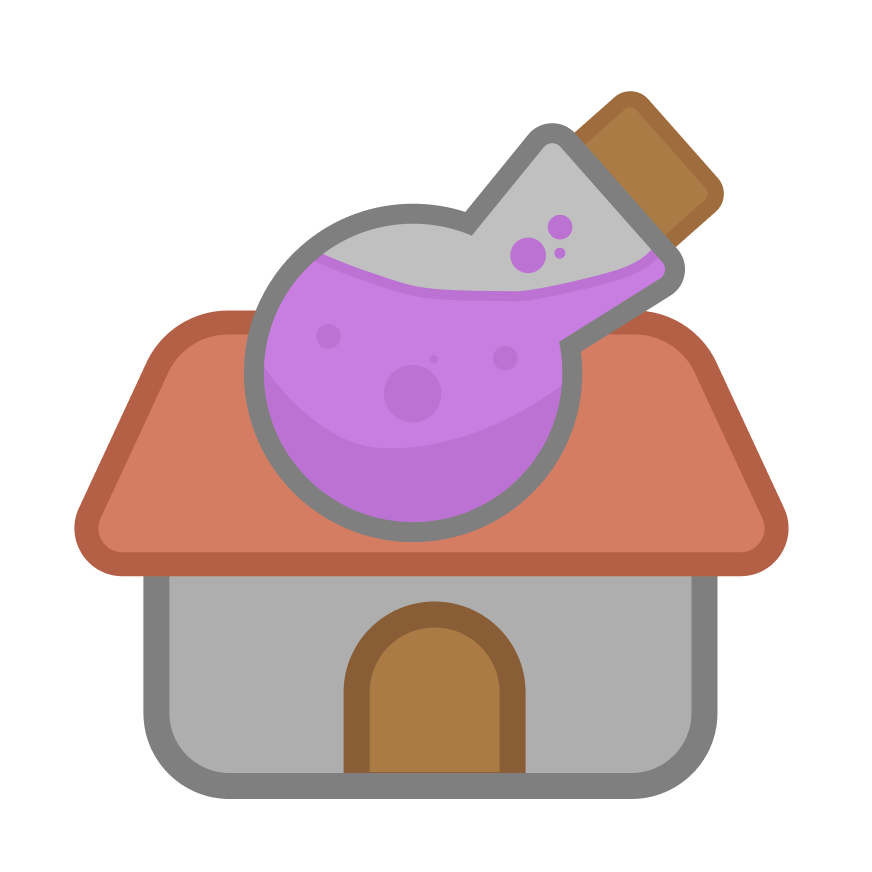
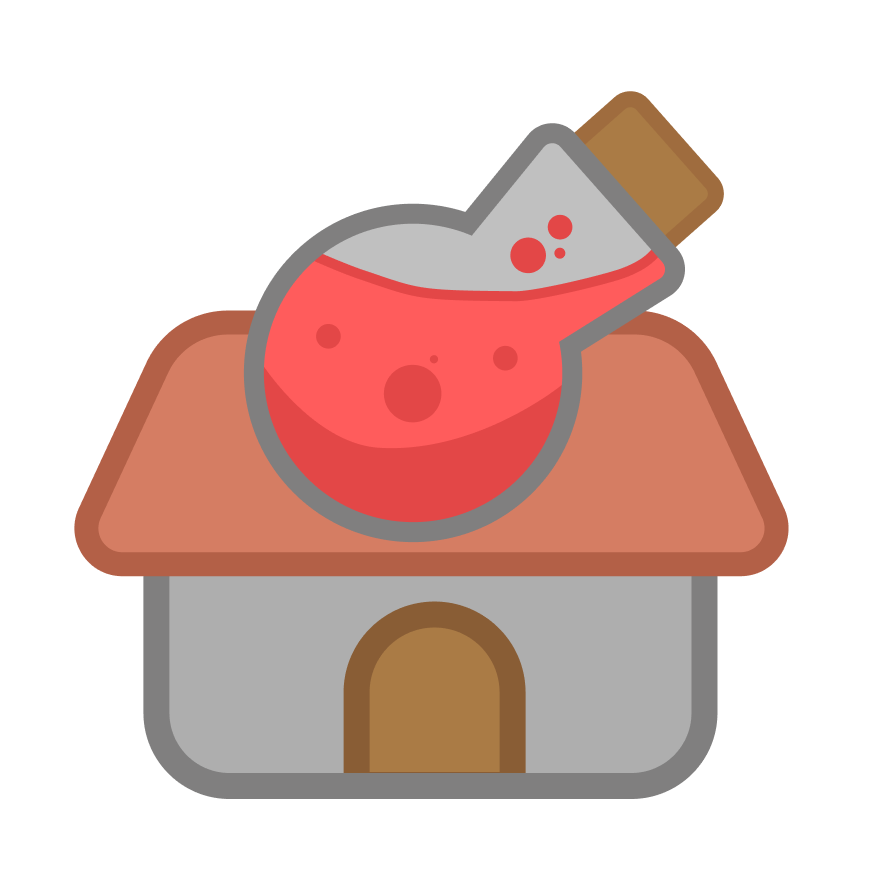
Polish here and there

Changed region(s): [[0.2787, 0.2477, 0.7741, 0.6193]]

diff --git a/Assets/PlayerInteractIndicator.cs b/Assets/PlayerInteractIndicator.cs
@@ -18,12 +18,20 @@ public class PlayerInteractIndicator : Singleton<PlayerInteractIndicator>
     private bool isShowing = false;
     // Start is called before the first frame update
 
+    private void Start()
+    {
+        if (IiPanel != null)
+        {
+            IiPanel.SetActive(false);
+        }
+    }
+
     public void interactableIndicatorChecker(string text)
     {
         if (string.IsNullOrEmpty(text))
         {
             if (!isShowing) return;
-            Debug.Log("CallHide");
+            //Debug.Log("CallHide");
             isShowing = false;
             UITransitionManager.Instance.FadeOut(IiPanel);
             return;
@@ -35,7 +43,7 @@ public class PlayerInteractIndicator : Singleton<PlayerInteractIndicator>
         {
             indicatorImage.sprite = indicator.image;
             if (isShowing) return;
-            Debug.Log("CallShow");
+            //Debug.Log("CallShow");
             isShowing = true;
             UITransitionManager.Instance.FadeIn(IiPanel);
         }
@@ -43,7 +51,7 @@ public class PlayerInteractIndicator : Singleton<PlayerInteractIndicator>
         {
             Debug.LogWarning($"No indicator found for '{text}'");
             if (!isShowing) return;
-            Debug.Log("CallHide");
+            //Debug.Log("CallHide");
             isShowing= false;
             UITransitionManager.Instance.FadeOut(IiPanel);
         }

diff --git a/Assets/Script/Ui/PlayerPopUpUiManager.cs b/Assets/Script/Ui/PlayerPopUpUiManager.cs
@@ -193,11 +193,13 @@ public class PlayerPopUpUiManager : MonoBehaviour
     {
         CloseAllPopups();
         OpenPopup(dailyTidalsPanel);
+        AudioController.Instance.PlaySFX("Paper");
     }
 
     public void OpenDailyTidals()
     {
         OpenPopup(dailyTidalsPanel);
+        //AudioController.Instance.PlaySFX("Paper");
     }
 
     public void OpenGameStore()
@@ -273,6 +275,7 @@ public class PlayerPopUpUiManager : MonoBehaviour
     public void OpenQuestResultPanel()
     {
         questResultPanel.SetActive(true);
+        AudioController.Instance.PlaySFX("MissionComplete");
         isQuestCompleteHolding = false;
     }
 

diff --git a/Assets/Script/Inventory/InventoryManager.cs b/Assets/Script/Inventory/InventoryManager.cs
@@ -153,6 +153,7 @@ public class InventoryManager : Singleton<InventoryManager>
         if (ingredientInventoryList.ingredientsList == null)
             ingredientInventoryList.ingredientsList = new List<IngredientInventoryData>();
 
+        PickupPopupManager.Instance?.ShowPickup(ingredientData);
         var existing = ingredientInventoryList.ingredientsList
             .Find(i => i.ingredientData == ingredientData);
 

diff --git a/Assets/Script/Day/DayInteract.cs b/Assets/Script/Day/DayInteract.cs
@@ -14,6 +14,7 @@ public class DayInteract : MonoBehaviour
     {
         if (isSaving) yield break;
         isSaving = true;
+        AudioController.Instance.PlaySFX("Sleep");
         InputManager.Instance.DisableInputs();
         UITransitionManager.Instance.FadeIn(SceneLoadingManager.Instance.loadingScreen, 1f);
         yield return new WaitForSeconds(2f);

diff --git a/Assets/Script/Gathering/Herb.cs b/Assets/Script/Gathering/Herb.cs
@@ -83,7 +83,7 @@ public class Herb : MonoBehaviour, IInteractable
         {
             InventoryManager.Instance.AddIngredient(ingredientData);
 
-            PickupPopupManager.Instance?.ShowPickup(ingredientData);
+            
 
             if (collectedEffect != null)
                 collectedEffect.Play();

diff --git a/Assets/Script/Ui/QuestResultUiController.cs b/Assets/Script/Ui/QuestResultUiController.cs
@@ -18,5 +18,6 @@ public class QuestResultUiController : MonoBehaviour
         animator.ResetTrigger("Start");
         gameObject.SetActive(false);
     }
+
     
 }
